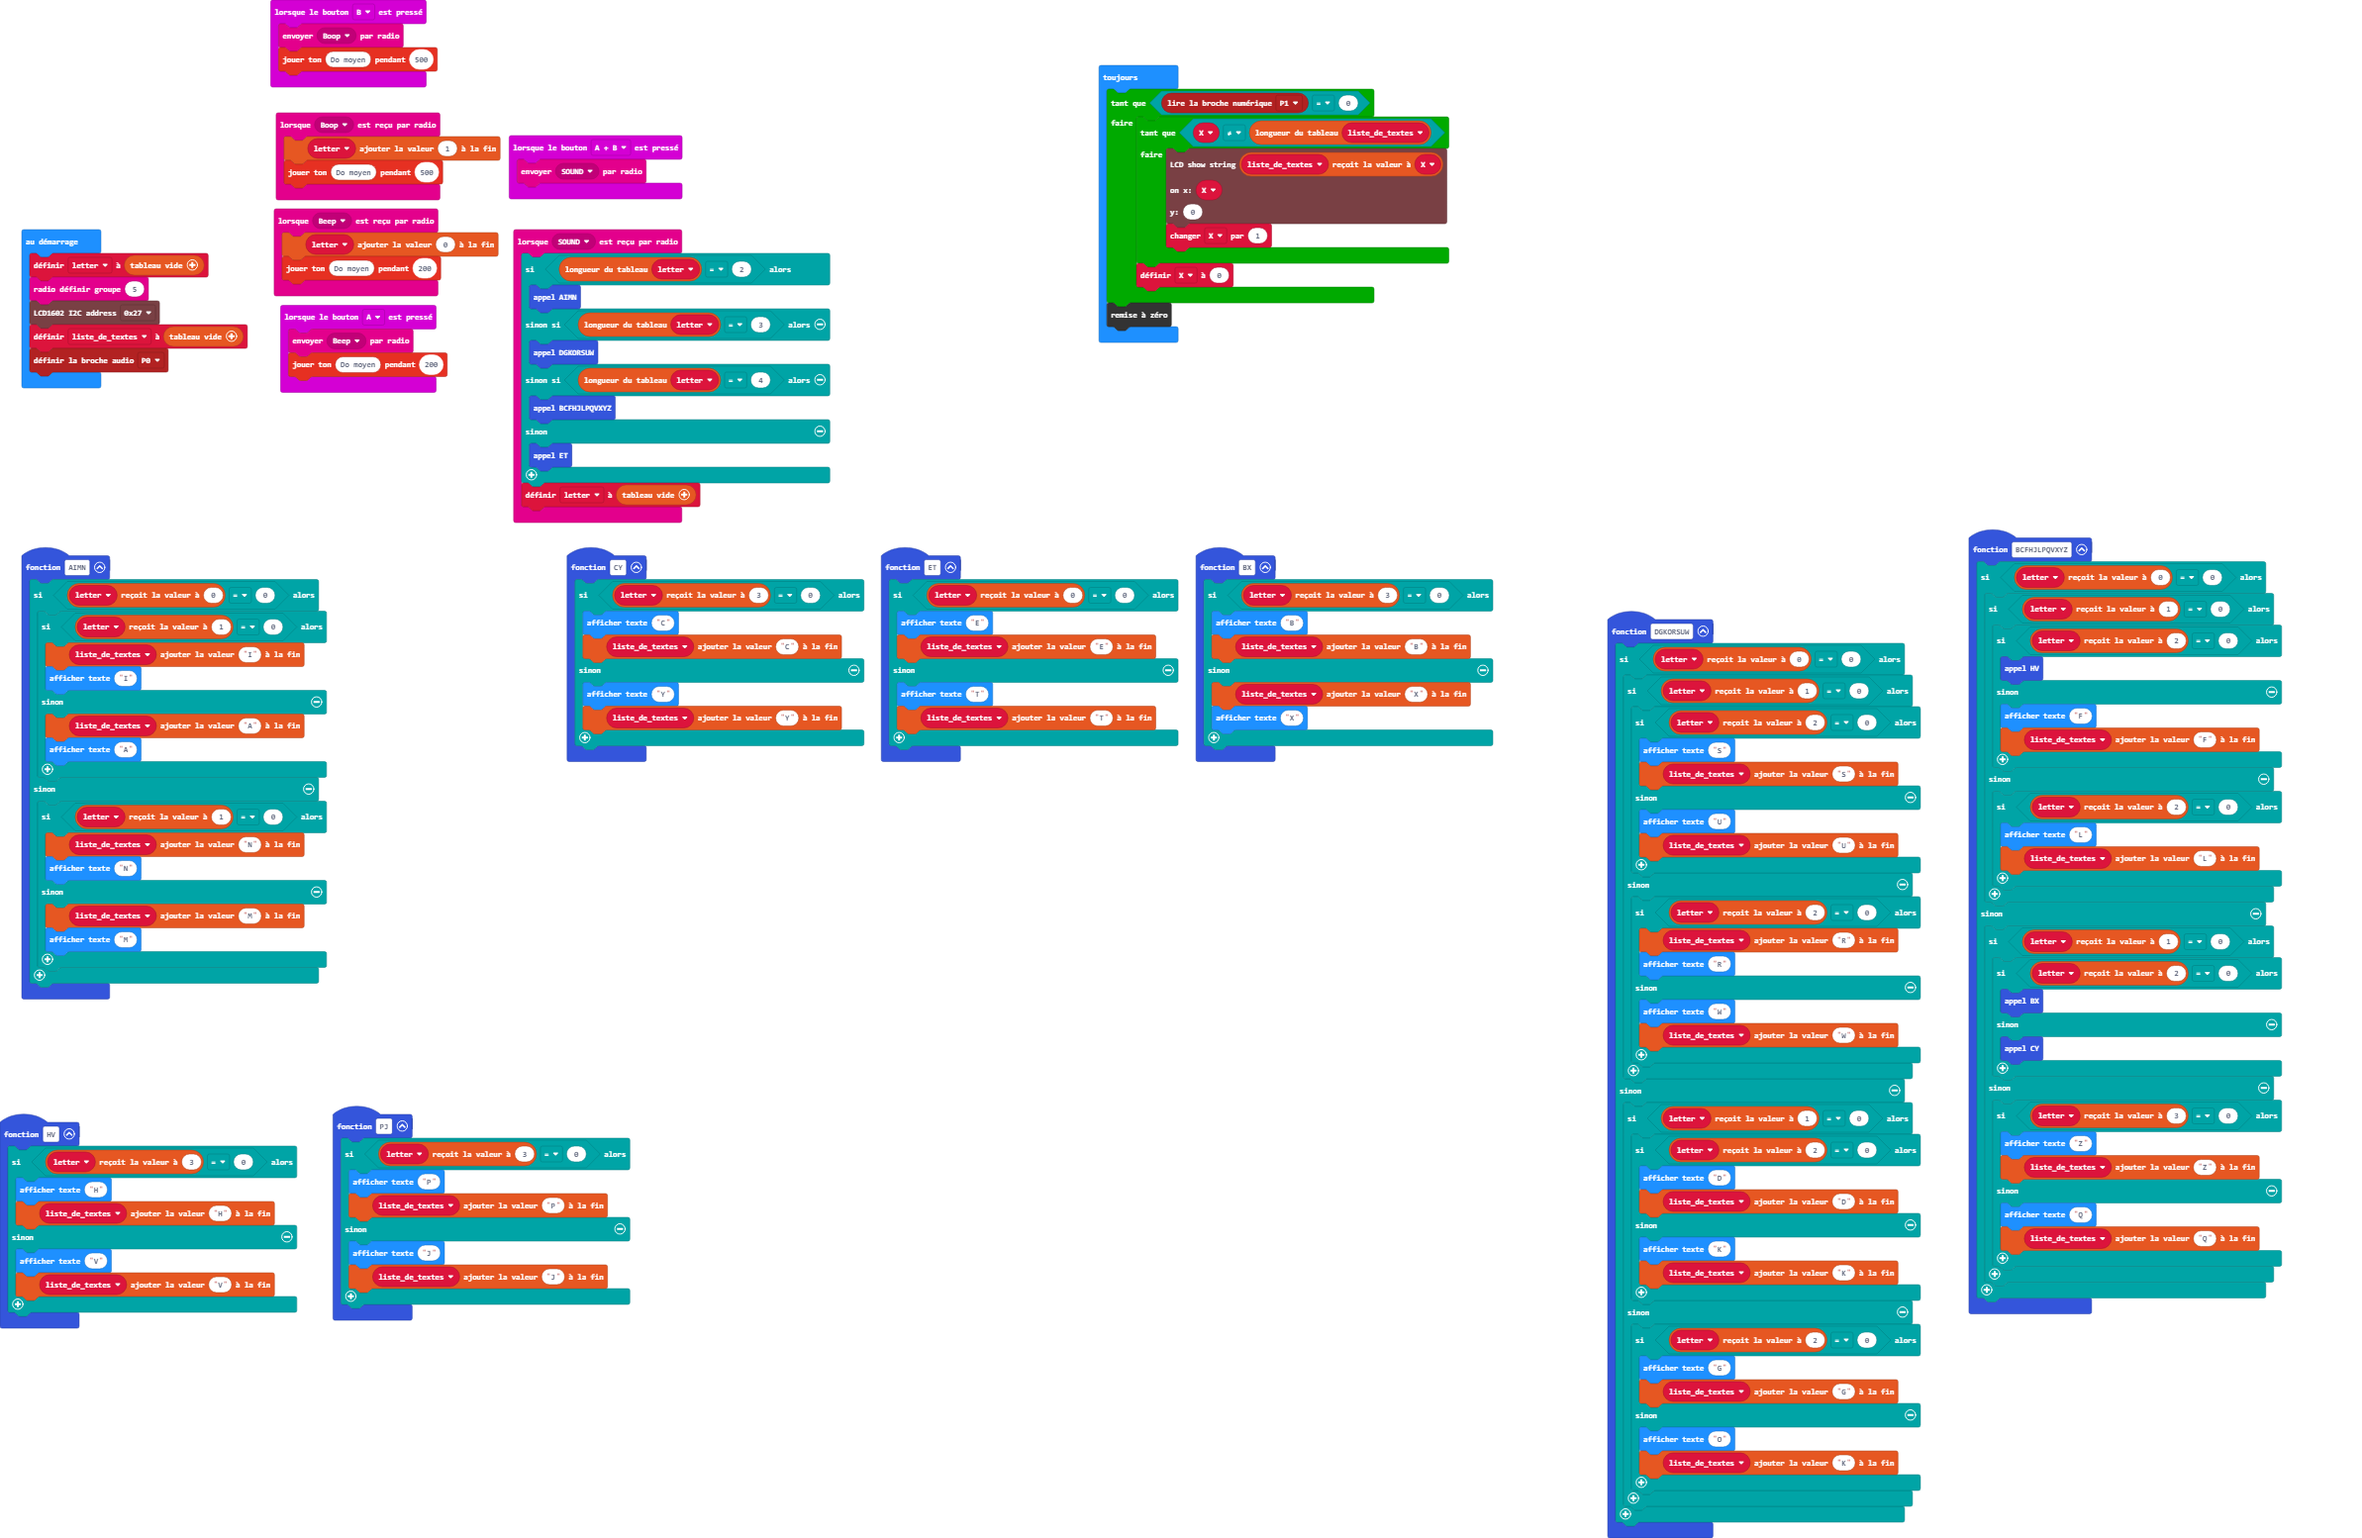
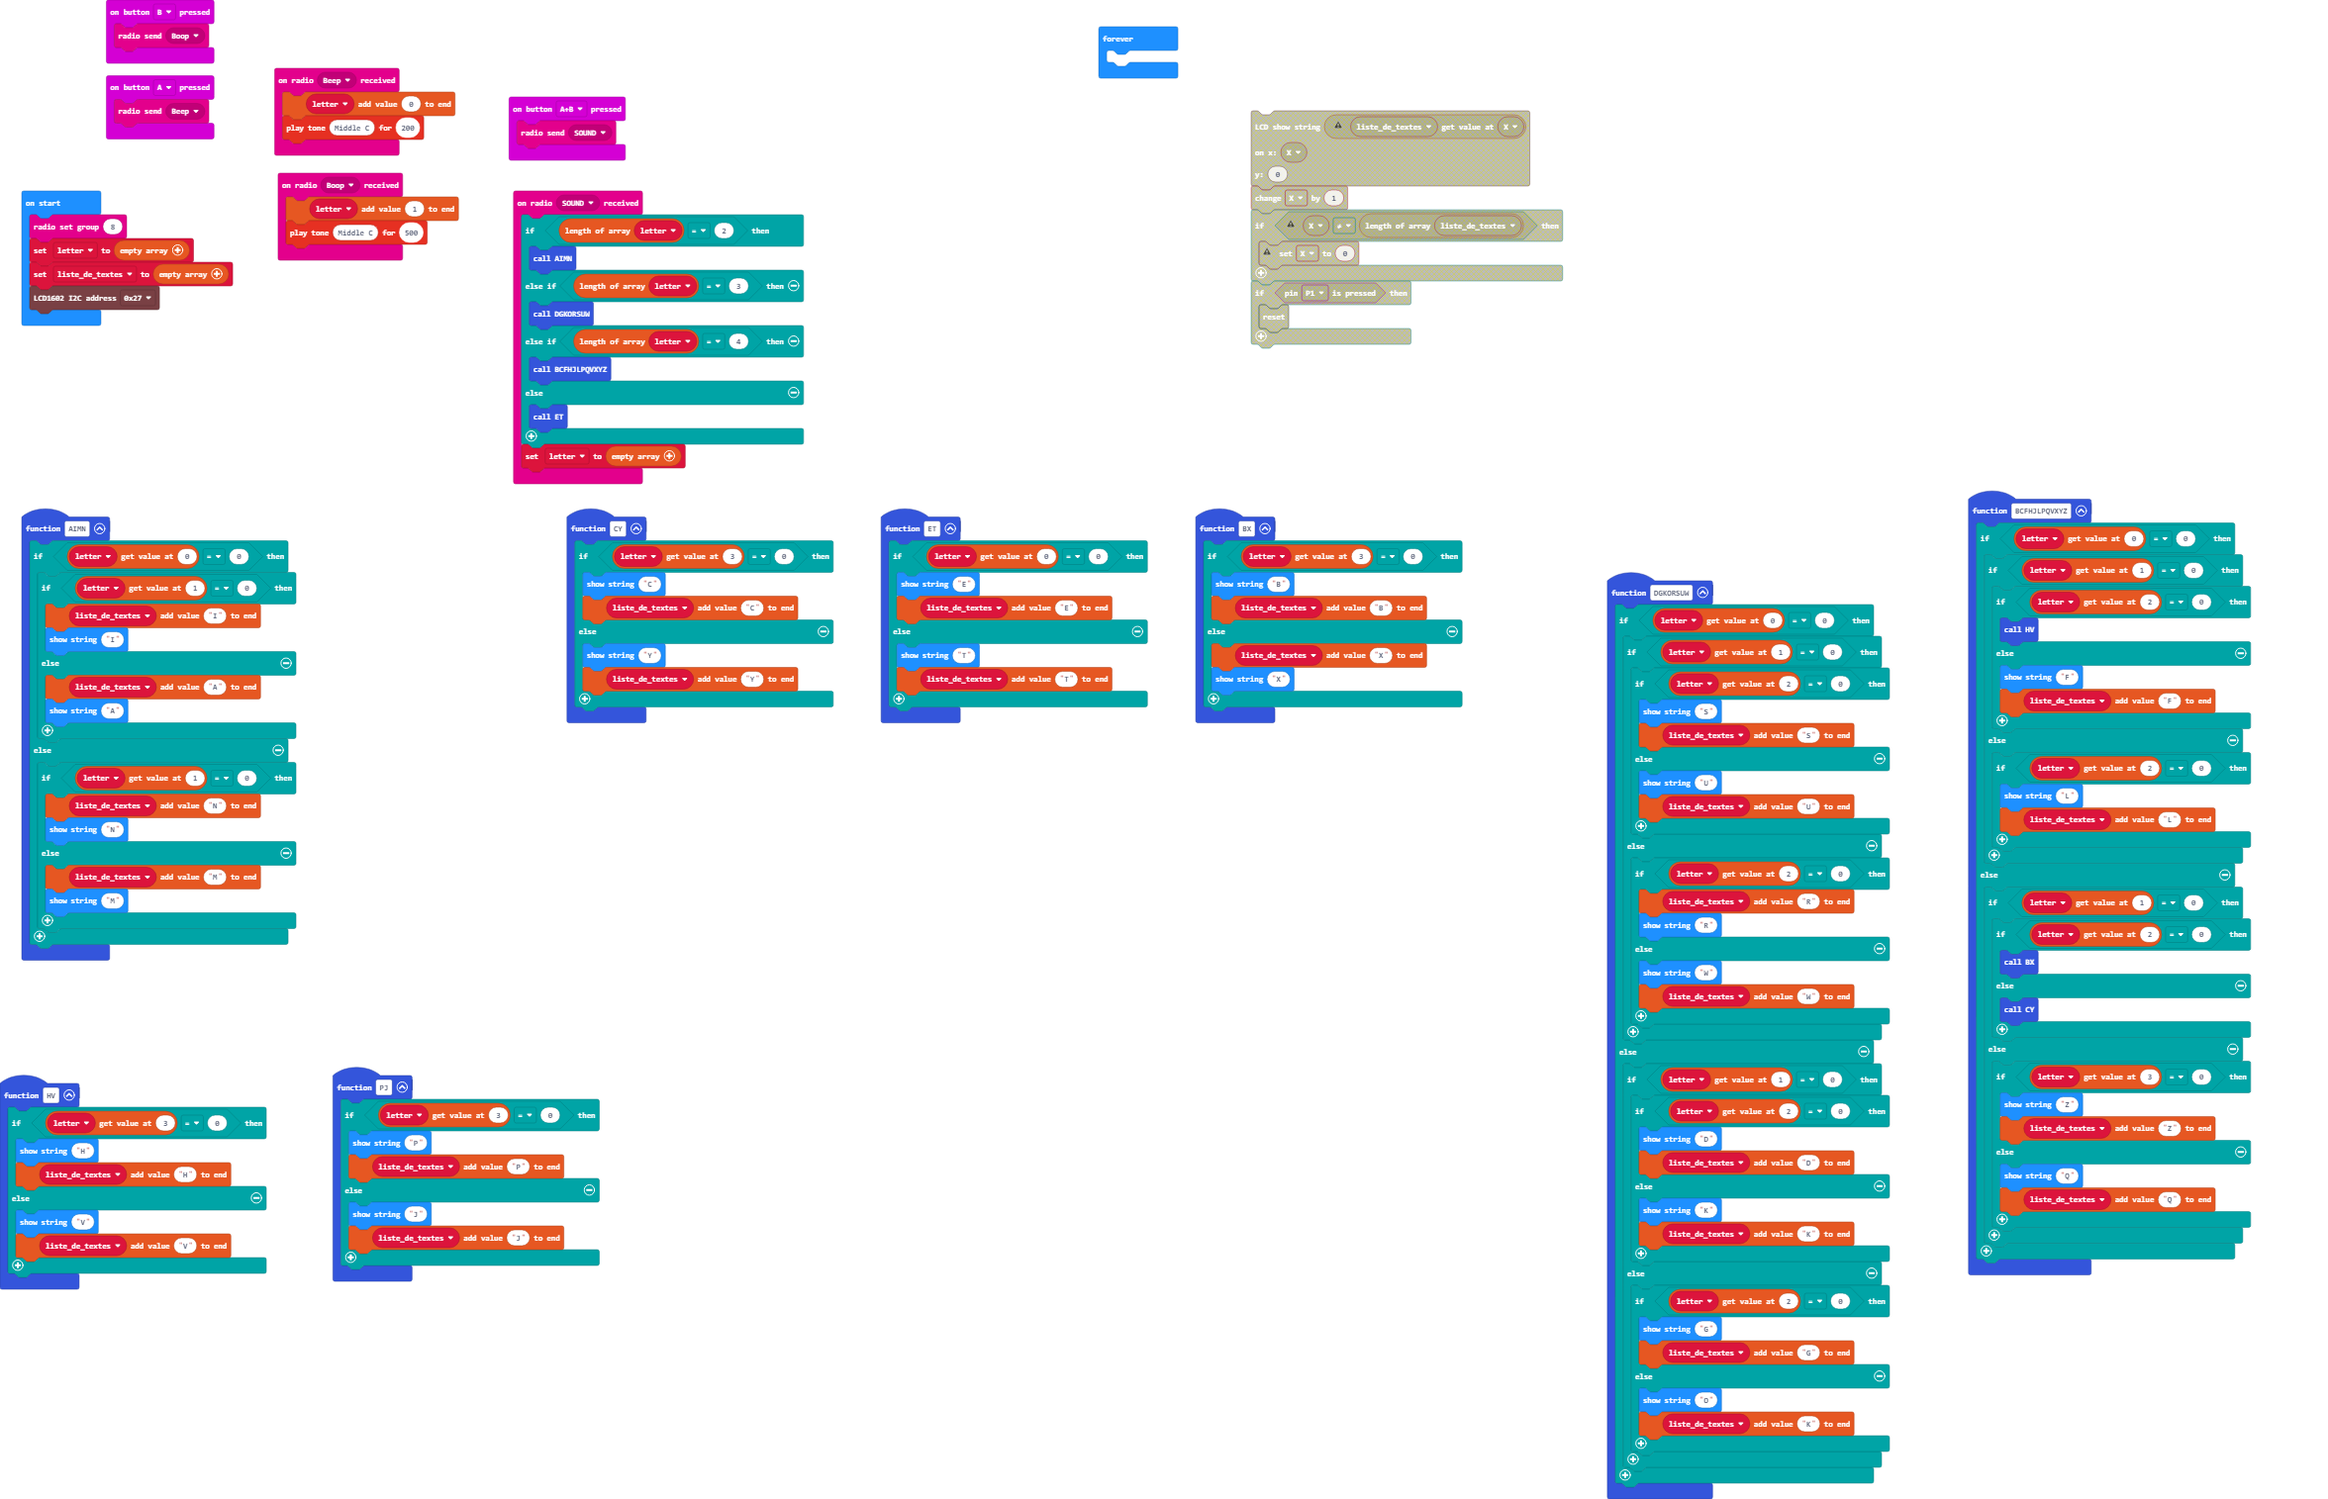
Update main.blocks, main.ts

diff --git a/main.ts b/main.ts
@@ -64,7 +64,6 @@ function AIMN () {
 }
 input.onButtonPressed(Button.A, function () {
     radio.sendMessage(RadioMessage.Beep)
-    music.playTone(262, 200)
 })
 function HV () {
     if (letter[3] == 0) {
@@ -117,9 +116,6 @@ function BCFHJLPQVXYZ () {
         }
     }
 }
-input.onButtonPressed(Button.AB, function () {
-    radio.sendMessage(RadioMessage.SOUND)
-})
 radio.onReceivedMessage(RadioMessage.Beep, function () {
     letter.push(0)
     music.playTone(262, 200)
@@ -136,6 +132,9 @@ radio.onReceivedMessage(RadioMessage.SOUND, function () {
     }
     letter = []
 })
+input.onButtonPressed(Button.AB, function () {
+    radio.sendMessage(RadioMessage.SOUND)
+})
 function BX () {
     if (letter[3] == 0) {
         basic.showString("B")
@@ -147,7 +146,6 @@ function BX () {
 }
 input.onButtonPressed(Button.B, function () {
     radio.sendMessage(RadioMessage.Boop)
-    music.playTone(262, 500)
 })
 function ET () {
     if (letter[0] == 0) {
@@ -171,27 +169,14 @@ radio.onReceivedMessage(RadioMessage.Boop, function () {
     letter.push(1)
     music.playTone(262, 500)
 })
-let X = 0
 let liste_de_textes: string[] = []
 let letter: number[] = []
+radio.setGroup(8)
 letter = []
-radio.setGroup(5)
+liste_de_textes = []
 lcd1602.setAddress(
 lcd1602.I2C_ADDR.addr1
 )
-liste_de_textes = []
-pins.setAudioPin(AnalogPin.P0)
 basic.forever(function () {
-    while (pins.digitalReadPin(DigitalPin.P1) == 0) {
-        while (X != liste_de_textes.length) {
-            lcd1602.putString(
-            liste_de_textes[X],
-            X,
-            0
-            )
-            X += 1
-        }
-        X = 0
-    }
-    control.reset()
+	
 })
